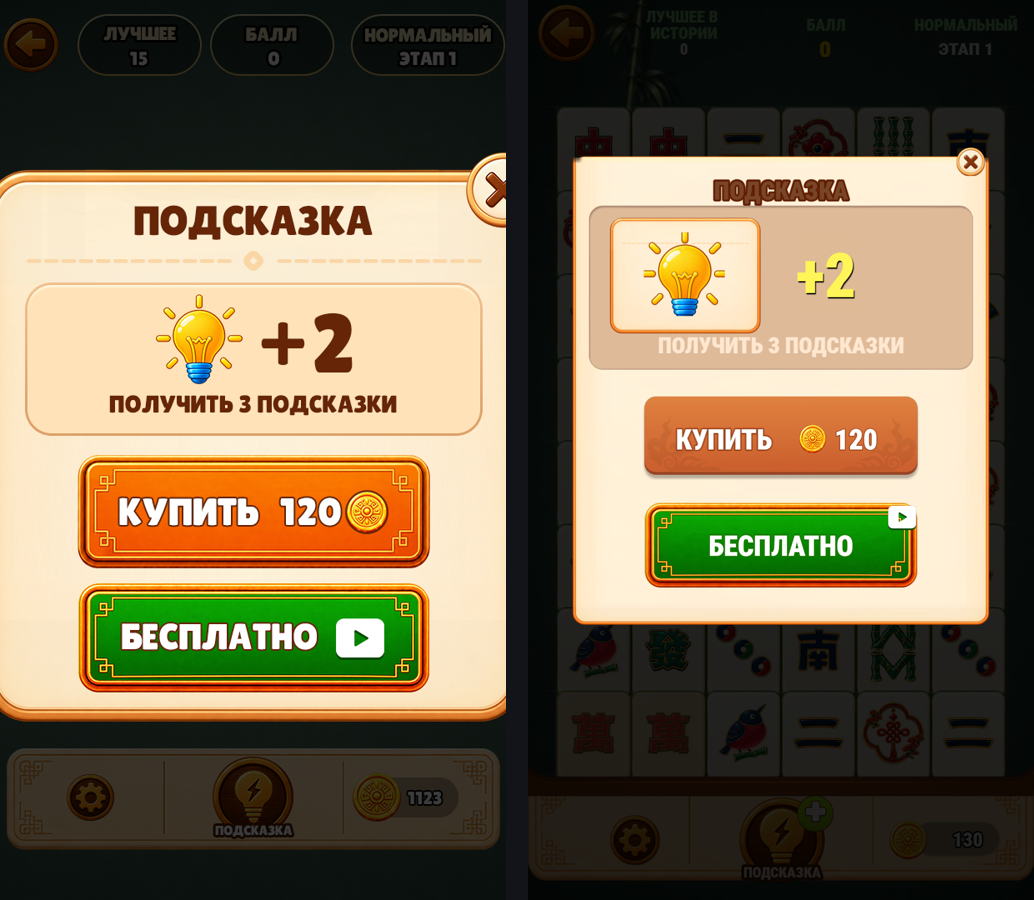
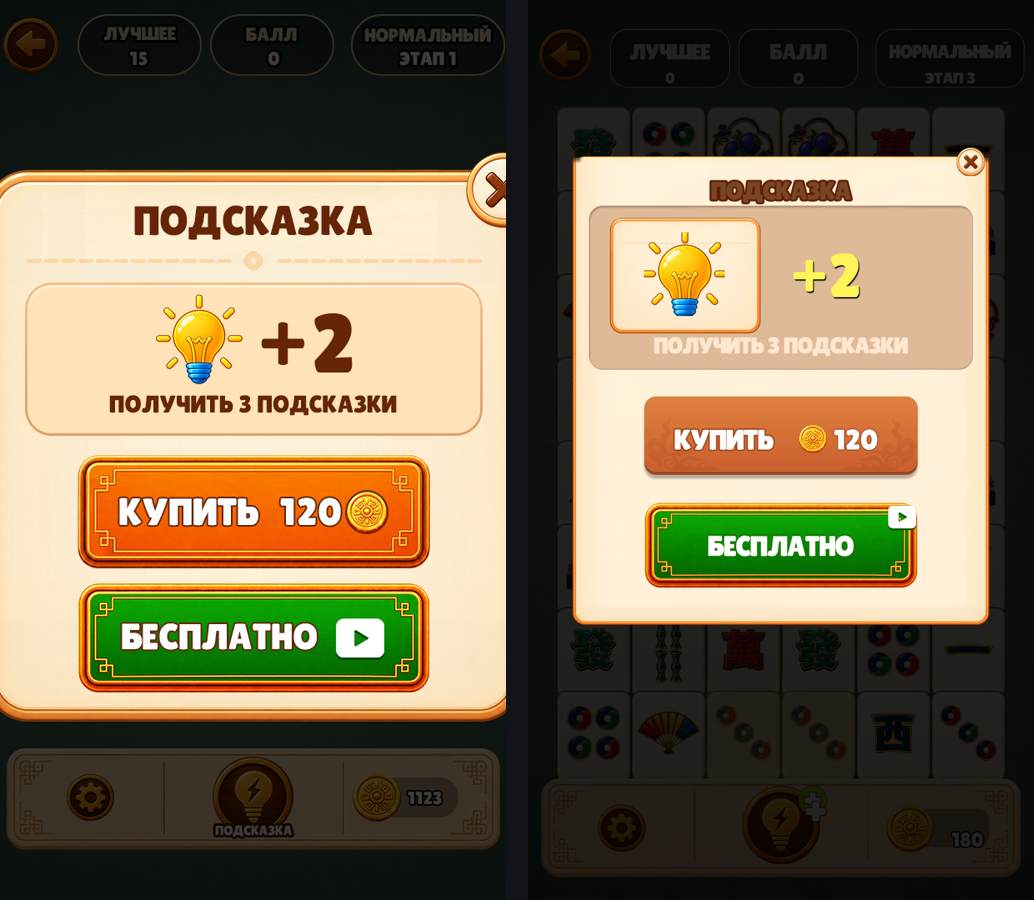
Game screen built from her layers, her font everywhere
The artist sent her font (Lilita One with Cyrillic) and the game screen as
layers on 2026-09-17. Both are in the build now:

- every label is set in her face, so the captions match her mockups in width
  and height instead of being ~15% taller at the same width;
- the game screen's three score plates, bottom bar, back button, gear, hint
  and coin pill are her drawings, placed from the layer files;
- all screenshots retaken from the live game.

diff --git a/index.html b/index.html
@@ -35,7 +35,7 @@
 <div class="wrap">
 
 <h1>Маджонг: как выглядит сейчас</h1>
-<p class="lead">Сборка port-art2, 15.09.2026. Слева на каждой паре - макет Ани,
+<p class="lead">Сборка port-art2, 17.09.2026. Слева на каждой паре - макет Ани,
 справа - живой экран игры, снятый сегодня. Всё, что видно справа, кроме текста, это её файлы.</p>
 
 <div class="card">
@@ -66,11 +66,11 @@
 </div>
 <div class="card">
 <h3>Игровой экран</h3>
-<img src="sheets/pair_level_live.png" alt="Игровой экран">
+<img src="sheets/pair_game_live.png" alt="Игровой экран">
 <p class="muted">слева макет Ани, справа игра</p>
 <div class="notes">
-  <div class="note have"><b>Уже её</b>Все плитки, тело плитки, сукно, бамбук, панда за доской, нижняя плашка с шестернёй, подсказкой и монетами.</div>
-  <div class="note need"><b>Чего не хватает</b>Плашки под «Лучшее / Балл / Нормальный»: у неё это три обведённые пилюли, у нас голый текст. Сетка между плитками и линия, которой соединяется пара. Рука-указатель в обучении.</div>
+  <div class="note have"><b>Уже её</b>Собран из её слоёв (пакет UI_Game от 17 сентября): сукно, три плашки под «Лучшее / Балл / Этап», кнопка назад, нижняя плашка, шестерня, подсказка, монета и её тёмная пилюля под числом. Плитки и тело плитки - её же.</div>
+  <div class="note need"><b>Чего не хватает</b>Сетка между плитками и линия, которой соединяется пара. Рука-указатель в обучении. Кегль подписей в плашках взят долей от плашки, а не меркой: её готового экрана в пакете не было.</div>
 </div>
 </div>
 <div class="card">
@@ -149,16 +149,16 @@ PNG на полном холсте 1080x1920, на своём месте, плю
 побайтовое совпадение:</p>
 <pre style="overflow-x:auto; background:#0f1116; padding:12px 14px; border-radius:8px; font-size:13px">приёмка слоёв: вне подписей расходится 0.002% кадра
 
-пол шума на ровном сукне: 0.0 из 255
+пол шума на ровном сукне: 0.2 из 255
 элемент              расхождение      оценка
 avatar_frame_bot        43.5 из 255   живое, сравнивать нечего
 avatar_frame            31.3 из 255   живое, сравнивать нечего
 headxiu                 21.4 из 255   живое, сравнивать нечего
 records_icon            15.9 из 255   РАЗНОЕ
-set                      3.6 из 255   совпало
-coin                     2.2 из 255   совпало
+set                     10.1 из 255   заметно
+coin                     2.8 из 255   совпало
 panda_main               0.5 из 255   совпало
-sub_btn_main             0.0 из 255   совпало
+sub_btn_main             0.1 из 255   совпало
 lock_2                   0.0 из 255   совпало
 lock_1                   0.0 из 255   совпало
 coin_sub                 0.0 из 255   совпало
@@ -168,12 +168,12 @@ btn_beige                0.0 из 255   совпало
 avatar_sub_name          0.0 из 255   совпало
 
 светлые подписи (наша против её):
-   playername               сдвиг   -2,  -3   ширина 113 против 112   высота  30 против  28
-   jinbidi/coinnum          сдвиг   +0,  +1   ширина  56 против  77   высота  28 против  28
-   icon_paihang/Label-001   сдвиг   +0,  +2   ширина 236 против 235   высота  22 против  19
-   btn_tiaoZhan/Label-001   сдвиг   +0,  -4   ширина 372 против 370   высота  54 против  47
-   btn_kunnan/Label-001     сдвиг   -0,  -4   ширина 280 против 279   высота  55 против  47
-   btn_kunnan-001/Label-001 сдвиг  -28,  +4   ширина 412 против 351   высота  80 против  75
+   playername               сдвиг   -2,  -2   ширина 110 против 112   высота  29 против  28
+   jinbidi/coinnum          сдвиг   -0,  +1   ширина  68 против  77   высота  30 против  28
+   icon_paihang/Label-001   сдвиг   +1,  +2   ширина 229 против 235   высота  20 против  19
+   btn_tiaoZhan/Label-001   сдвиг   -0,  -4   ширина 373 против 370   высота  50 против  47
+   btn_kunnan/Label-001     сдвиг   +0,  -4   ширина 283 против 279   высота  50 против  47
+   btn_kunnan-001/Label-001 сдвиг  -30,  +4   ширина 409 против 351   высота  79 против  75
 </pre>
 <p class="muted">Отличается только живое: имя игрока, число монет и нарисованная аватарка вместо
 пустого кружка на её экране. Подписи стоят в пределах четырёх точек от её, но наш шрифт при той же

diff --git a/brief.html b/brief.html
@@ -32,7 +32,7 @@
 <div class="wrap">
 
 <h1>Маджонг: что дорисовать</h1>
-<p class="lead">Лист для Ани, 10.09.2026. Что уже стоит в игре - на
+<p class="lead">Лист для Ани, 17.09.2026. Что уже стоит в игре - на
 <a href="index.html">странице статуса</a>. Здесь только то, чего ещё нет, с точными размерами и картинкой,
 как оно выглядит сейчас.</p>
 
